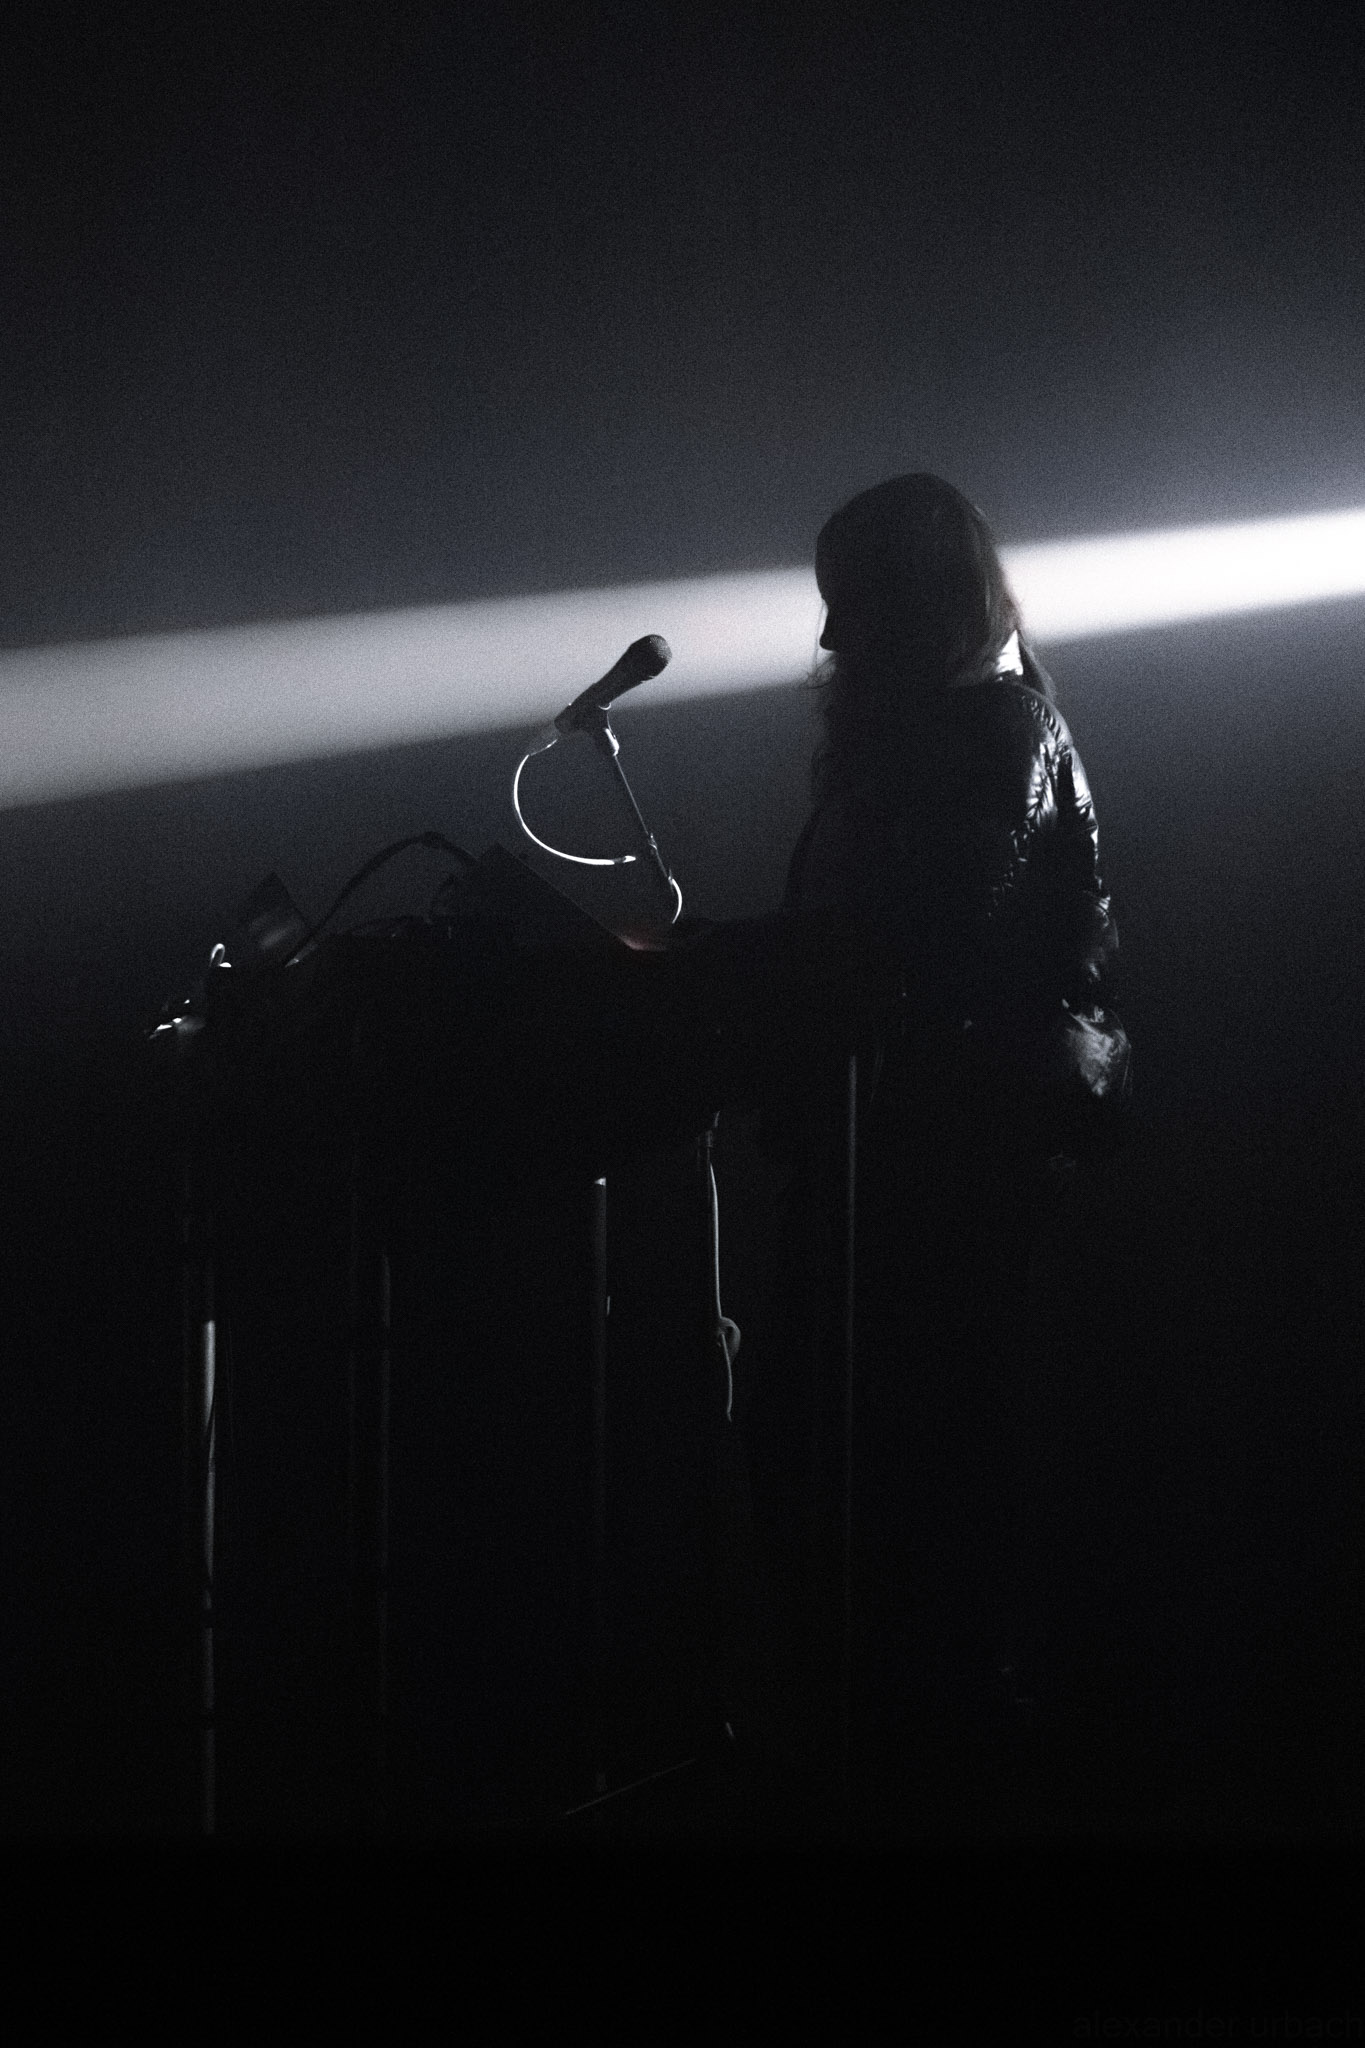
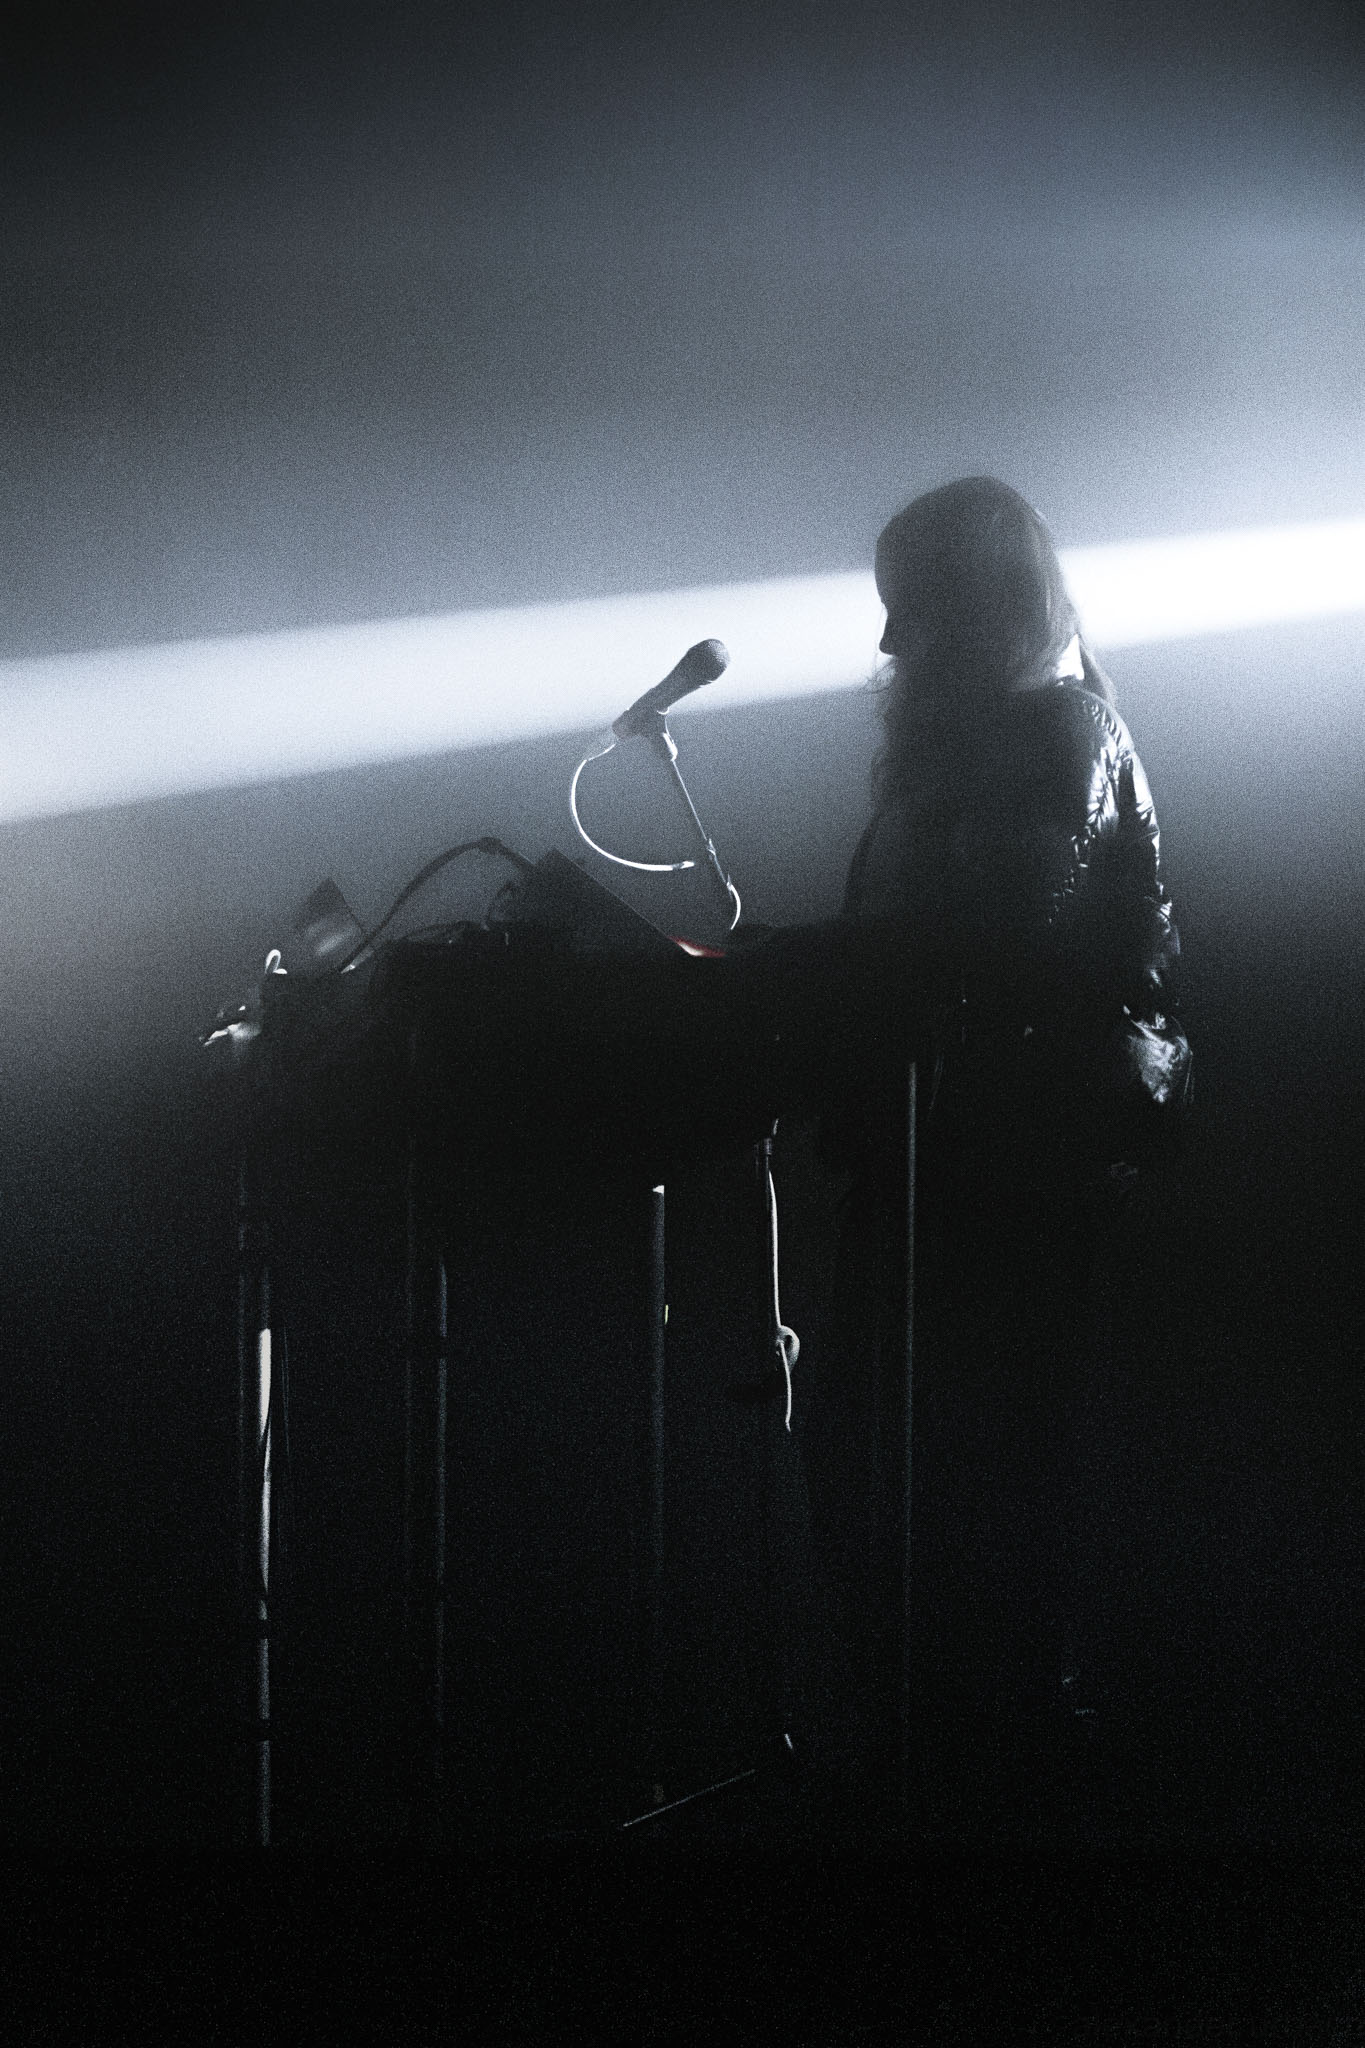
fix homepage images

diff --git a/js/pages/home/hero-slideshow.js b/js/pages/home/hero-slideshow.js
@@ -42,7 +42,7 @@ const collections = [
         name: "[ view collection :: malibu ]",
         images: [
             "./assets/images/collections/malibu/malibu-3.jpg",
-            "./assets/images/collections/malibu/malibu-c-1.jpg",
+            "./assets/images/collections/malibu/malibu-c-2.jpg",
             "./assets/images/collections/malibu/malibu-6.jpg"
         ],
         texts: [
